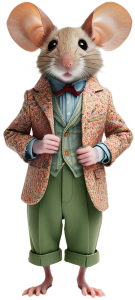
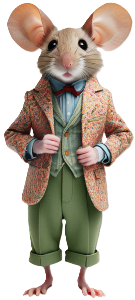
trying a cropped version of mouse
added a cropped version of the mouse picture to see if it looks better, updated index.js and styles.css to try the cropped pic of mouse

diff --git a/src/styles.css b/src/styles.css
@@ -20,7 +20,7 @@ body {
 
 h1 {
   text-align: center;
-  font-size: 85px;
+  font-size: 50px;
   font-family: Verdana, Geneva, Tahoma, sans-serif;
   color: rgb(221, 16, 119);
   -webkit-text-stroke: 1px black;
@@ -28,7 +28,7 @@ h1 {
 
 h2 {
   text-align: center;
-  font-size: 40px;
+  font-size: 25px;
   color: white;
   -webkit-text-stroke: 1px black;
 }
@@ -76,12 +76,12 @@ h2 {
 }
 
 .mole {
-  background: url('../assets/mice_assets/mouse.png') bottom center no-repeat;
+  background: url('../assets/mice_assets/mousehalf.jpg') bottom center no-repeat;
   background-size: 40%;
   position: absolute;
   top: 100%;
   width: 100%;
-  height: 100%;
+  height: 60%;
   transition: all 1s;
   pointer-events: auto;
 }

diff --git a/src/index.js b/src/index.js
@@ -83,7 +83,7 @@ function showAndHide(hole, delay){
 
 function toggleVisibility(hole) {
   const mouse = hole.querySelector('.mole');
-  mouse.style.backgroundImage = "url('../assets/mice_assets/mouse.png')";
+  mouse.style.backgroundImage = "url('../assets/mice_assets/mousehalf.jpg')";
   hole.classList.toggle('show');
   return hole;
 }
